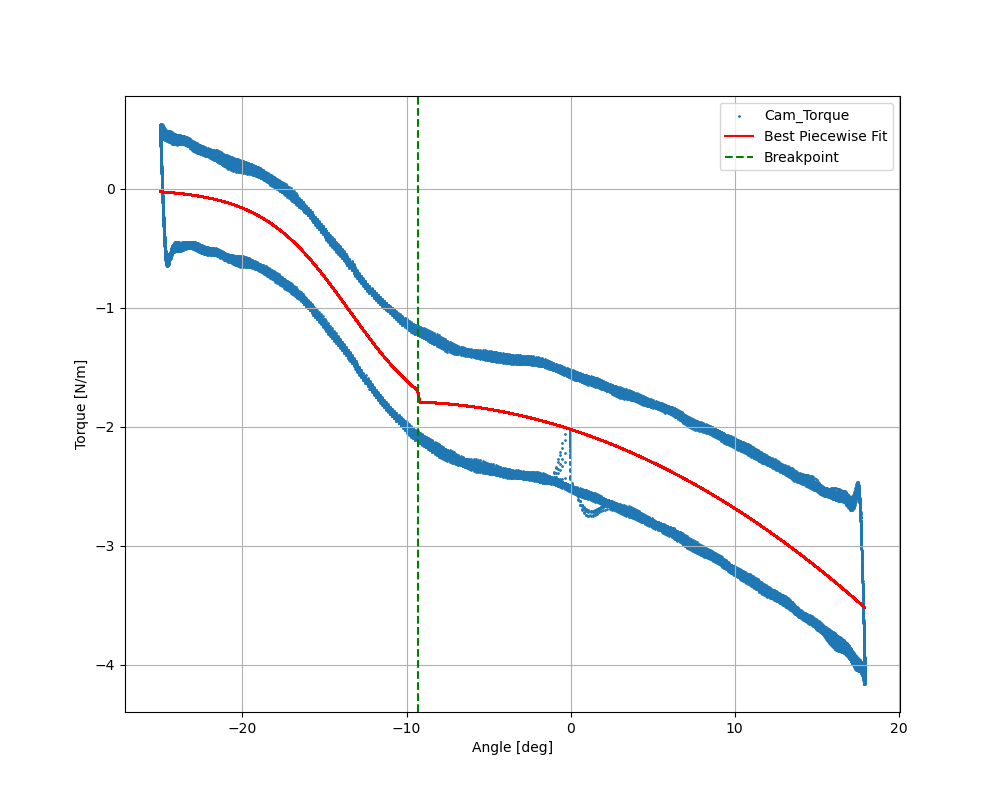
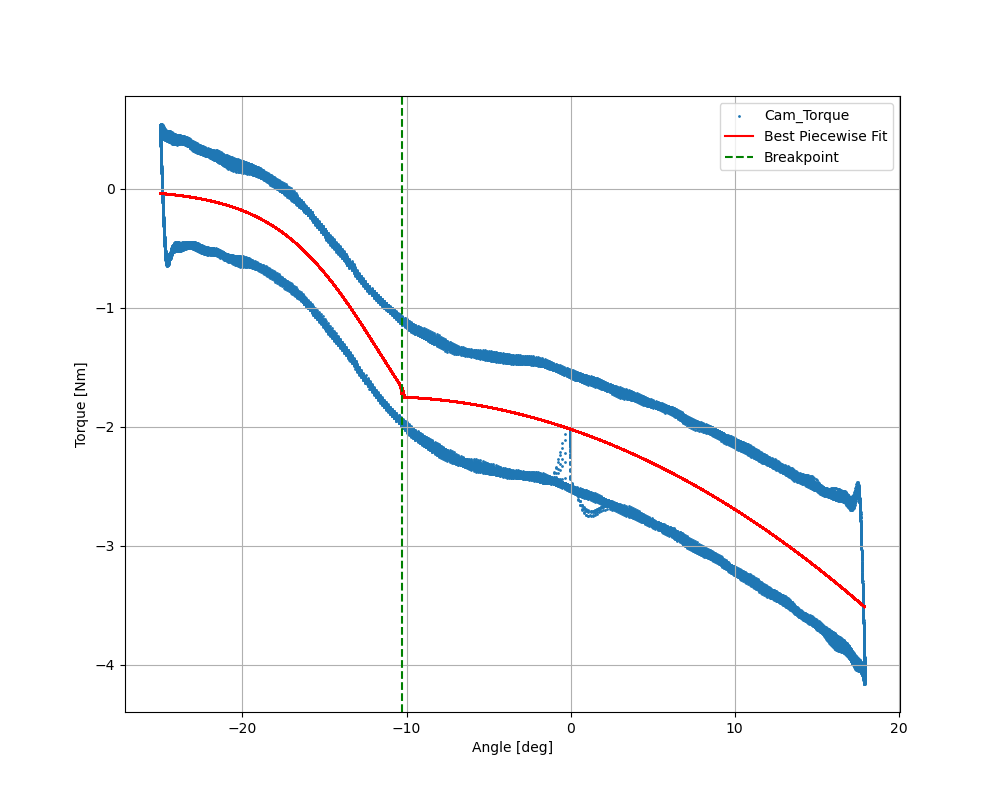
matlab fit

diff --git a/plotter.py b/plotter.py
@@ -148,7 +148,7 @@ def plot_piecewise_fit():
     plt.plot(x_data, best_fit_func(x_data), label='Best Piecewise Fit', color='red')
     plt.axvline(x=best_breakpoint, color='green', linestyle='--', label='Breakpoint')
     plt.xlabel('Angle [deg]')
-    plt.ylabel('Torque [N/m]')
+    plt.ylabel('Torque [Nm]')
     plt.grid(True)
     plt.legend()
     plt.show()
